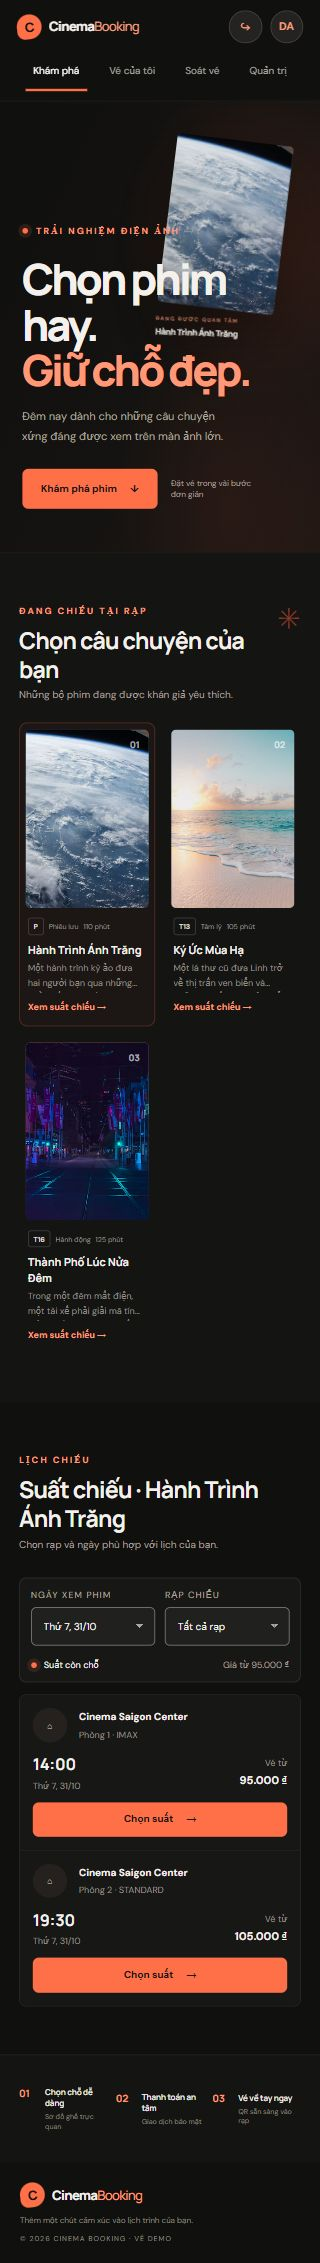
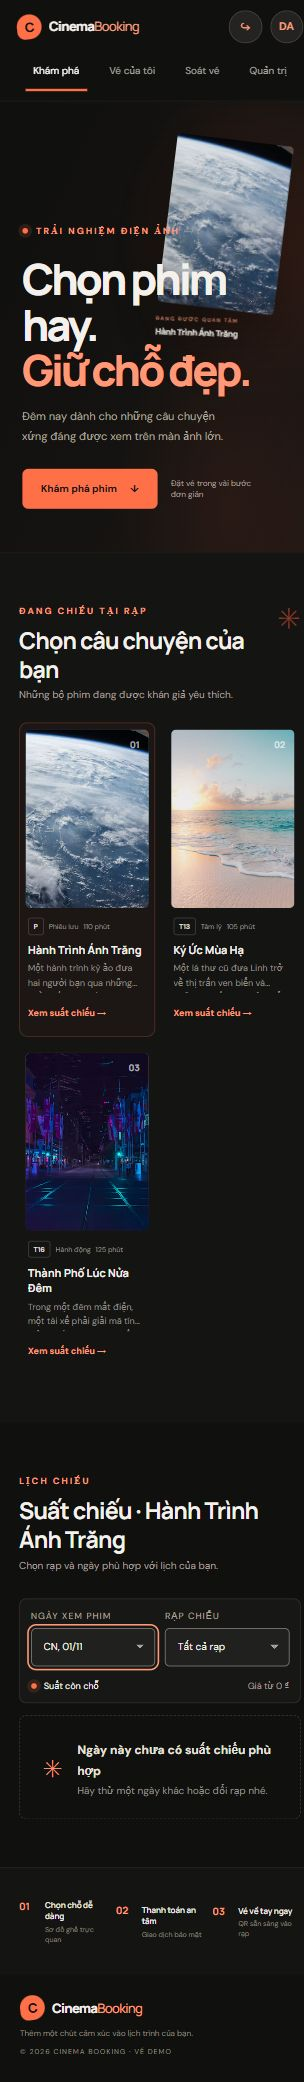
test: complete mobile accessibility regression coverage

diff --git a/tests/e2e/a11y-states.spec.ts b/tests/e2e/a11y-states.spec.ts
@@ -67,7 +67,7 @@ const seatMap = {
 type MockOptions = {
   loginError?: { status: number; error: string; message: string };
   registrationError?: { status: number; error: string; message: string };
-  movieTitle?: string;
+  movieTitles?: string[];
 };
 
 async function fulfillJson(route: Route, status: number, body: unknown) {
@@ -82,7 +82,15 @@ async function mockApi(page: Page, options: MockOptions = {}) {
     const { pathname } = new URL(request.url());
 
     if (request.method() === "GET" && pathname === "/api/movies") {
-      await fulfillJson(route, 200, [{ ...movie, title: options.movieTitle ?? movie.title }]);
+      const movies = options.movieTitles?.length
+        ? options.movieTitles.map((title, index) => ({
+          ...movie,
+          id: index === 0 ? movie.id : `${movie.id}-${index}`,
+          slug: index === 0 ? movie.slug : `${movie.slug}-${index}`,
+          title,
+        }))
+        : [movie];
+      await fulfillJson(route, 200, movies);
     } else if (request.method() === "GET" && pathname === "/api/showtimes") {
       await fulfillJson(route, 200, [showtime]);
     } else if (request.method() === "GET" && pathname === `/api/showtimes/${showtime.id}/seats`) {
@@ -165,18 +173,52 @@ function contrastRatioOver(foregroundColor: string, backgroundColor: string, for
   return (Math.max(foregroundLuminance, backgroundLuminance) + 0.05) / (Math.min(foregroundLuminance, backgroundLuminance) + 0.05);
 }
 
-test("[TC-E2E-27] nhãn sơ đồ ghế mô tả trạng thái và loại ghế tiếp cận", async ({ page }) => {
+test("[TC-E2E-27] mobile shows every movie title without clipping and keeps targets large enough", async ({ page }) => {
   await page.setViewportSize({ width: 320, height: 800 });
-  const longMovieTitle = "Thành Phố Lúc Nửa Đêm";
-  await mockApi(page, { movieTitle: longMovieTitle });
+  const movieTitles = [
+    "Thành Phố Lúc Nửa Đêm",
+    "SupercalifragilisticexpialidociousCinema",
+    "A11y Mobile Film Three",
+    "A11y Mobile Film Four",
+  ];
+  await mockApi(page, { movieTitles });
   await page.goto("/");
-  await expect(page.getByTestId("movie-card").first()).toBeVisible();
-  const movieTitleHeading = page.getByRole("heading", { name: longMovieTitle, level: 3 });
-  await expect(movieTitleHeading).toBeVisible();
-  const movieTitleIsClipped = await movieTitleHeading.evaluate((element) => {
-    return element.scrollWidth > element.clientWidth || element.scrollHeight > element.clientHeight;
+  const movieCards = page.getByTestId("movie-card");
+  await expect(movieCards).toHaveCount(movieTitles.length);
+  for (const title of movieTitles) await expect(page.getByRole("heading", { name: title, level: 3 })).toBeVisible();
+  const movieTitleBoxes = await page.locator(".movie-info h3").evaluateAll((elements) => {
+    return elements.map((element) => ({
+      clipped: element.scrollWidth > element.clientWidth || element.scrollHeight > element.clientHeight,
+    }));
   });
-  expect(movieTitleIsClipped).toBe(false);
+  expect(movieTitleBoxes).toHaveLength(movieTitles.length);
+  expect(movieTitleBoxes.every(({ clipped }) => !clipped)).toBe(true);
+  const movieActionTargets = await movieCards.getByRole("button", { name: "Xem suất chiếu" }).evaluateAll((elements) => {
+    return elements.map((element) => {
+      const bounds = element.getBoundingClientRect();
+      return { width: bounds.width, height: bounds.height };
+    });
+  });
+  expect(movieActionTargets).toHaveLength(movieTitles.length);
+  expect(movieActionTargets.every(({ width, height }) => width >= 24 && height >= 24)).toBe(true);
+  const moviePageWidth = await page.evaluate(() => ({
+    clientWidth: document.documentElement.clientWidth,
+    scrollWidth: document.documentElement.scrollWidth,
+  }));
+  expect(moviePageWidth.scrollWidth).toBeLessThanOrEqual(moviePageWidth.clientWidth);
+  await page.setViewportSize({ width: 800, height: 800 });
+  await expect(movieCards).toHaveCount(movieTitles.length);
+  for (const title of movieTitles) await expect(page.getByRole("heading", { name: title, level: 3 })).toBeVisible();
+  const tabletMovieTitleBoxes = await page.locator(".movie-info h3").evaluateAll((elements) => {
+    return elements.map((element) => element.scrollWidth > element.clientWidth || element.scrollHeight > element.clientHeight);
+  });
+  expect(tabletMovieTitleBoxes.every((clipped) => !clipped)).toBe(true);
+  const tabletPageWidth = await page.evaluate(() => ({
+    clientWidth: document.documentElement.clientWidth,
+    scrollWidth: document.documentElement.scrollWidth,
+  }));
+  expect(tabletPageWidth.scrollWidth).toBeLessThanOrEqual(tabletPageWidth.clientWidth);
+  await page.setViewportSize({ width: 320, height: 800 });
   await page.getByTestId("movie-card").first().getByRole("button", { name: "Xem suất chiếu" }).click();
   await page.getByTestId("showtime-option").first().click();
 

diff --git a/frontend/src/styles.css b/frontend/src/styles.css
@@ -88,9 +88,9 @@ button:focus-visible, a:focus-visible, input:focus-visible, select:focus-visible
 .movie-info { padding: 15px 2px 1px; }
 .movie-tags { display: flex; align-items: center; gap: 8px; color: #929089; font-size: 8px; white-space: nowrap; }
 .rating-tag { padding: 3px 5px; border: 1px solid rgba(255,255,255,.18); border-radius: 3px; color: #ddd8d0; font-weight: 700; }
-.movie-info h3 { overflow: hidden; white-space: nowrap; text-overflow: ellipsis; font: 700 14px Manrope,sans-serif; margin: 9px 0 6px; }
+.movie-info h3 { overflow-wrap: anywhere; font: 700 14px Manrope,sans-serif; margin: 9px 0 6px; }
 .movie-info p { min-height: 38px; margin: 0; color: #918d86; font-size: 10px; line-height: 1.6; display: -webkit-box; -webkit-line-clamp: 2; -webkit-box-orient: vertical; overflow: hidden; }
-.movie-select { margin-top: 12px; font-size: 10px; }
+.movie-select { min-height: 24px; margin-top: 12px; font-size: 10px; }
 .schedule-section { padding-top: 65px; padding-bottom: 85px; }
 .schedule-section .section-heading { margin-bottom: 26px; }
 .schedule-filters { display: flex; align-items: flex-end; gap: 14px; padding: 14px 16px; border: 1px solid var(--line); background: #171716; border-radius: 7px; margin-bottom: 12px; }
@@ -300,7 +300,6 @@ button:focus-visible, a:focus-visible, input:focus-visible, select:focus-visible
   .hero { padding-left: 7vw; }
   .hero-poster-wrap { right: 12vw; }
   .movie-rail, .loading-grid { grid-template-columns: repeat(3, minmax(0,1fr)); }
-  .movie-card:nth-child(n+4) { display: none; }
 }
 @media (max-width: 700px) {
   .topbar { height: auto; min-height: 64px; padding: 10px 17px; display: grid; grid-template-columns: minmax(0, 1fr) auto; gap: 8px; }
@@ -334,12 +333,11 @@ button:focus-visible, a:focus-visible, input:focus-visible, select:focus-visible
   .section-decoration { font-size: 28px; padding: 0; }
   .movie-rail, .loading-grid { grid-template-columns: repeat(2, minmax(0,1fr)); gap: 9px; }
   .movie-card { padding: 6px 6px 10px; }
-  .movie-card:nth-child(n+4) { display: none; }
   .movie-info { padding-top: 10px; }
   .movie-tags { gap: 5px; font-size: 7px; }
-  .movie-info h3 { overflow: visible; white-space: normal; text-overflow: clip; font-size: 11px; margin: 7px 0 4px; }
+  .movie-info h3 { font-size: 11px; margin: 7px 0 4px; }
   .movie-info p { font-size: 9px; min-height: 32px; }
-  .movie-select { margin-top: 8px; font-size: 9px; }
+  .movie-select { min-height: 24px; margin-top: 8px; padding: 6px 0; font-size: 9px; }
   .schedule-filters { display: grid; grid-template-columns: 1fr 1fr; gap: 10px; padding: 11px; }
   .filter-field { min-width: 0; }
   .filter-field select { width: 100%; font-size: 10px; }

diff --git a/docs/manual-accessibility-checklist.md b/docs/manual-accessibility-checklist.md
@@ -15,7 +15,7 @@
 | Desktop screen reader and version | — |
 | Mobile device / browser / screen reader | — |
 | Zoom, viewport, and display settings | 320×800, 640×800 and 800×320 CSS-pixel viewport emulation; actual 200%/400% zoom and text resizing not tested |
-| Evidence folder or links | [Agent accessibility evidence](evidence/followup/2026-10-30-agent-a11y-320px-reflow.json); [320px retest screenshot](evidence/followup/2026-10-30-a11y-320px-after.png); [landscape-size screenshot](evidence/followup/2026-10-30-a11y-800x320-landscape.png) |
+| Evidence folder or links | [Agent accessibility evidence](evidence/followup/2026-10-30-agent-a11y-320px-reflow.json); [320px title retest](evidence/followup/2026-10-30-a11y-320px-after.png); [filter focus](evidence/followup/2026-10-30-a11y-320px-filter-keyboard.png); [empty filter state](evidence/followup/2026-10-30-a11y-320px-filter-empty.png); [landscape-size screenshot](evidence/followup/2026-10-30-a11y-800x320-landscape.png) |
 | Findings / issue IDs | — |
 | Sign-off | — |
 
@@ -47,8 +47,8 @@ Record granular results in the [manual accessibility results template](manual-ac
 
 | ID / screen or workflow | Manual checks to perform | Status | Reviewer / date | Evidence link(s) | Finding / issue ID or N/A reason |
 |---|---|---|---|---|---|
-| A11Y-01 — App shell and discover movies | **Keyboard/focus:** traverse header, sign-in, view navigation, movie cards and primary actions; confirm focus follows order and remains visible after changing view. **Names/announcements:** confirm current page heading and movie title/details/actions are understandable; decorative poster artwork does not create noisy duplicate announcements, while meaningful poster content has an appropriate alternative. **Zoom/contrast:** repeat at 320 CSS px, 200% text and 400% zoom; verify header/cards/actions reflow, no horizontal page scroll, text and focus contrast. **SR:** navigate by landmarks/headings and verify that a view change or return from another view leaves a useful heading/location. | Fail | Codex agent / 2026-10-30 | Agent review evidence; [320px reflow retest](evidence/followup/2026-10-30-agent-a11y-320px-reflow.json) | A11Y-F04 retested; A11Y-F08 title-wrap fix visually retested; full workflow review pending |
-| A11Y-02 — Movie, cinema, and date filters | **Keyboard/focus:** operate each filter with native select keys; verify filter order and that changing a filter does not unexpectedly move focus. **Labels:** each select announces its purpose and selected value. **Announcements:** updated result count/empty result and errors are announced; availability is not conveyed only by the colored dot/legend. **Zoom/contrast/target:** labels and controls stay associated and tappable at narrow width; focus and selected states remain distinct. **SR:** verify filter labels, selected options, result heading and movie/showtime context. | Fail | Codex agent / 2026-10-30 | Agent review evidence | A11Y-F05 retested; full workflow review pending |
+| A11Y-01 — App shell and discover movies | **Keyboard/focus:** traverse header, sign-in, view navigation, movie cards and primary actions; confirm focus follows order and remains visible after changing view. **Names/announcements:** confirm current page heading and movie title/details/actions are understandable; decorative poster artwork does not create noisy duplicate announcements, while meaningful poster content has an appropriate alternative. **Zoom/contrast:** repeat at 320 CSS px, 200% text and 400% zoom; verify header/cards/actions reflow, no horizontal page scroll, text and focus contrast. **SR:** navigate by landmarks/headings and verify that a view change or return from another view leaves a useful heading/location. | Fail | Codex agent / 2026-10-30 | Agent review evidence; [320px reflow and target-size retests](evidence/followup/2026-10-30-agent-a11y-320px-reflow.json) | A11Y-F04 retested; A11Y-F08 title-wrap and A11Y-F09 target-size fixes visually retested; full workflow review pending |
+| A11Y-02 — Movie, cinema, and date filters | **Keyboard/focus:** operate each filter with native select keys; verify filter order and that changing a filter does not unexpectedly move focus. **Labels:** each select announces its purpose and selected value. **Announcements:** updated result count/empty result and errors are announced; availability is not conveyed only by the colored dot/legend. **Zoom/contrast/target:** labels and controls stay associated and tappable at narrow width; focus and selected states remain distinct. **SR:** verify filter labels, selected options, result heading and movie/showtime context. | Fail | Codex agent / 2026-10-30 | Agent review evidence; [filter keyboard/contrast evidence](evidence/followup/2026-10-30-agent-a11y-320px-reflow.json) | A11Y-F05 original label issue retested; focus order/persistence, focus visibility, measured contrast and target size passed; full keyboard, zoom and screen-reader review pending |
 | A11Y-03 — Login and registration dialog | **Keyboard/focus:** open from each responsive header entry point; focus enters the dialog, Tab/Shift+Tab wrap within it, Escape/close returns focus to the opener, and background controls cannot be operated while modal. **Labels/errors:** name, email, password, required state and input errors are announced; invalid email/short password and duplicate-email/invalid-login feedback identify what to correct. **Announcements:** registration and login errors are announced once and remain available. **Zoom/contrast/target:** dialog fits at 320 CSS px and 200%/400% zoom; close, switch-mode, and submit controls remain visible and operable. **SR:** dialog title/purpose is announced; password manager/autofill and paste are usable. | Fail | Codex agent / 2026-10-29 | Agent review evidence | A11Y-F01 retested; full workflow review pending |
 | A11Y-04 — Seat-map dialog and hold selection | **Keyboard/focus:** open a showtime, reach each seat, select/deselect with keyboard, reach legend/hold/close; dialog traps focus and returns it to its opener. **Names/state:** each seat announces row/number, available/held/sold and selected state; accessible seats and blocked seats have understandable non-color distinctions; selected-seat count and total are understandable. **Announcements:** unavailable-seat conflict, hold created, and selection-limit feedback are announced. **Zoom/contrast/target:** seat map and controls work at mobile widths; selected/disabled/focus seat states are distinguishable and targets are not crowded. **SR:** traverse map without hearing an unstructured wall of repeated controls; confirm spatial labels provide enough context to choose safely. | Not tested | — | — | — |
 | A11Y-05 — Checkout, payment demo, expiry, and recovery | **Keyboard/focus:** after hold creation, focus/reading position reaches checkout context; order creation, payment, close/retry, and success navigation work by keyboard; focus is not hidden by dialog edges. **Names/content:** movie, cinema, time, seats, ticket count, and totals are read in a logical order. **Announcements:** busy/disabled state, payment failure, seat conflict, hold countdown/expiry, lost-response uncertainty, retry result, and successful payment are announced; repeated countdown updates do not interrupt screen-reader speech continuously. **Zoom/contrast/target:** totals and errors remain visible/readable; buttons and close controls remain reachable at 320 CSS px and magnification. **SR:** success says a ticket was created and how to reach it; retry does not silently duplicate or lose state. | Not tested | — | — | — |
@@ -68,11 +68,13 @@ Add one row per issue. Do not rewrite a failed result to pass after a code fix; 
 | A11Y-F02 | TARGET-01 / A11Y-07 | Staff header at 320 CSS px | Targets at least 24px with no overlap | Logout shrank to 23.1px and overlapped Soát vé | P2 target/layout | Agent review JSON, narrowHeaderFinding | Working-tree two-row header: 33px actions and 40px navigation; direct measurement passed |
 | A11Y-F03 | FOCUS-01 / A11Y-09 | Create a movie with Enter in the isolated test database | Focus remains in a useful location after save | Saving succeeds but focus falls to document body | P2 keyboard navigation | Agent review JSON, adminReview20261030 | Working tree / 2026-10-30: create-movie focus retest passed manually; success, error, focus movement and pagination covered by browser tests; broader workflow review pending |
 | A11Y-F04 | FOCUS-01 / A11Y-01 | Activate Xem suất chiếu by keyboard and press Tab | Focus leads into schedule and its filters | Focus proceeds to next movie poster while page scrolls to schedule | P2 keyboard navigation | Agent review JSON, discoveryAndFilters20261030 | Working tree / 2026-10-30: schedule heading then date filter focused; broad workflow review pending |
-| A11Y-F05 | NAME-01 / A11Y-02 | Inspect filter labels and accessible names | Names contain visible labels | Visible Ngày xem phim / Rạp chiếu exposed as Ngày chiếu / Rạp | P2 accessible names | Agent review JSON, discoveryAndFilters20261030 | Working tree / 2026-10-30: labels match; broad workflow review pending |
+| A11Y-F05 | NAME-01 / A11Y-02 | Inspect filter labels and accessible names | Names contain visible labels | Visible Ngày xem phim / Rạp chiếu exposed as Ngày chiếu / Rạp | P2 accessible names | Agent review JSON, discoveryAndFilters20261030 | Working tree / 2026-10-30: current visual labels and accessibility-tree names/selected values match; original Fail retained; broad workflow review pending |
 | A11Y-F06 | NAME-01 / A11Y-06 | Try to use the visible short ticket reference for Staff QR entry | A usable non-image alternative is available for the QR | Short reference is not the QR content required by the scan form | P2 non-image alternative | Agent review JSON, manualQrAlternative20261030 | Working tree / 2026-10-30: disclosure and selectable QR text passed targeted browser test; full workflow and actual screen-reader review pending |
 
 | A11Y-F07 | FOCUS-01 / A11Y-03 | Submit a duplicate email using keyboard | Focus remains usable in the dialog after error | Focus fell to body while submit button was disabled | P2 keyboard navigation | Agent review JSON, authDuplicateFocus20261030 | Working tree / 2026-10-30: Chromium regression passed; broader review pending |
 | A11Y-F08 | REFLOW-01 / A11Y-01 | At 320 CSS px, inspect the title in the third movie card | Movie title remains fully visible without clipping | “Thành Phố Lúc Nửa Đêm” was ellipsized; heading scroll width was 127px in a 119px box | P2 important content visually truncated | [320px reflow evidence](evidence/followup/2026-10-30-agent-a11y-320px-reflow.json) | Working tree / 2026-10-30: CSS changed to wrap the heading; full title visible in 320×800 retest; page width has no horizontal overflow at 320, 640 and 800 CSS px; TC-E2E-27 passed in Chromium, Firefox and WebKit; original Fail retained |
+| A11Y-F09 | TARGET-01 / A11Y-01 | At 320 CSS px, inspect each movie-card “Xem suất chiếu” target | Each important pointer target is at least 24×24 CSS px | Buttons measured 78×11 CSS px | P2 mobile target size | [320px target-size evidence](evidence/followup/2026-10-30-agent-a11y-320px-reflow.json) | Working tree / 2026-10-30: mobile actions now measure 78×24 CSS px; visual retest and TC-E2E-27 passed in Chromium, Firefox and WebKit; original Fail retained |
+| A11Y-F10 | REFLOW-01 / A11Y-01 and A11Y-10 | Source review found the responsive catalog hid cards after the third below 1000 CSS px | All movie choices remain available at mobile and tablet widths | `nth-child(n+4)` hid the remaining cards | P2 movie choices unavailable on narrow screens | [responsive catalog regression evidence](evidence/followup/2026-10-30-final-local-tool-runs.json) | Working tree / 2026-10-30: hide rules removed; TC-E2E-27 verified four cards at 320px and 800px in Chromium Desktop, Pixel 7, Firefox and WebKit; this fix is automated-retested, while full manual mobile and screen-reader review remains open |
 
 ## Decision record
 
